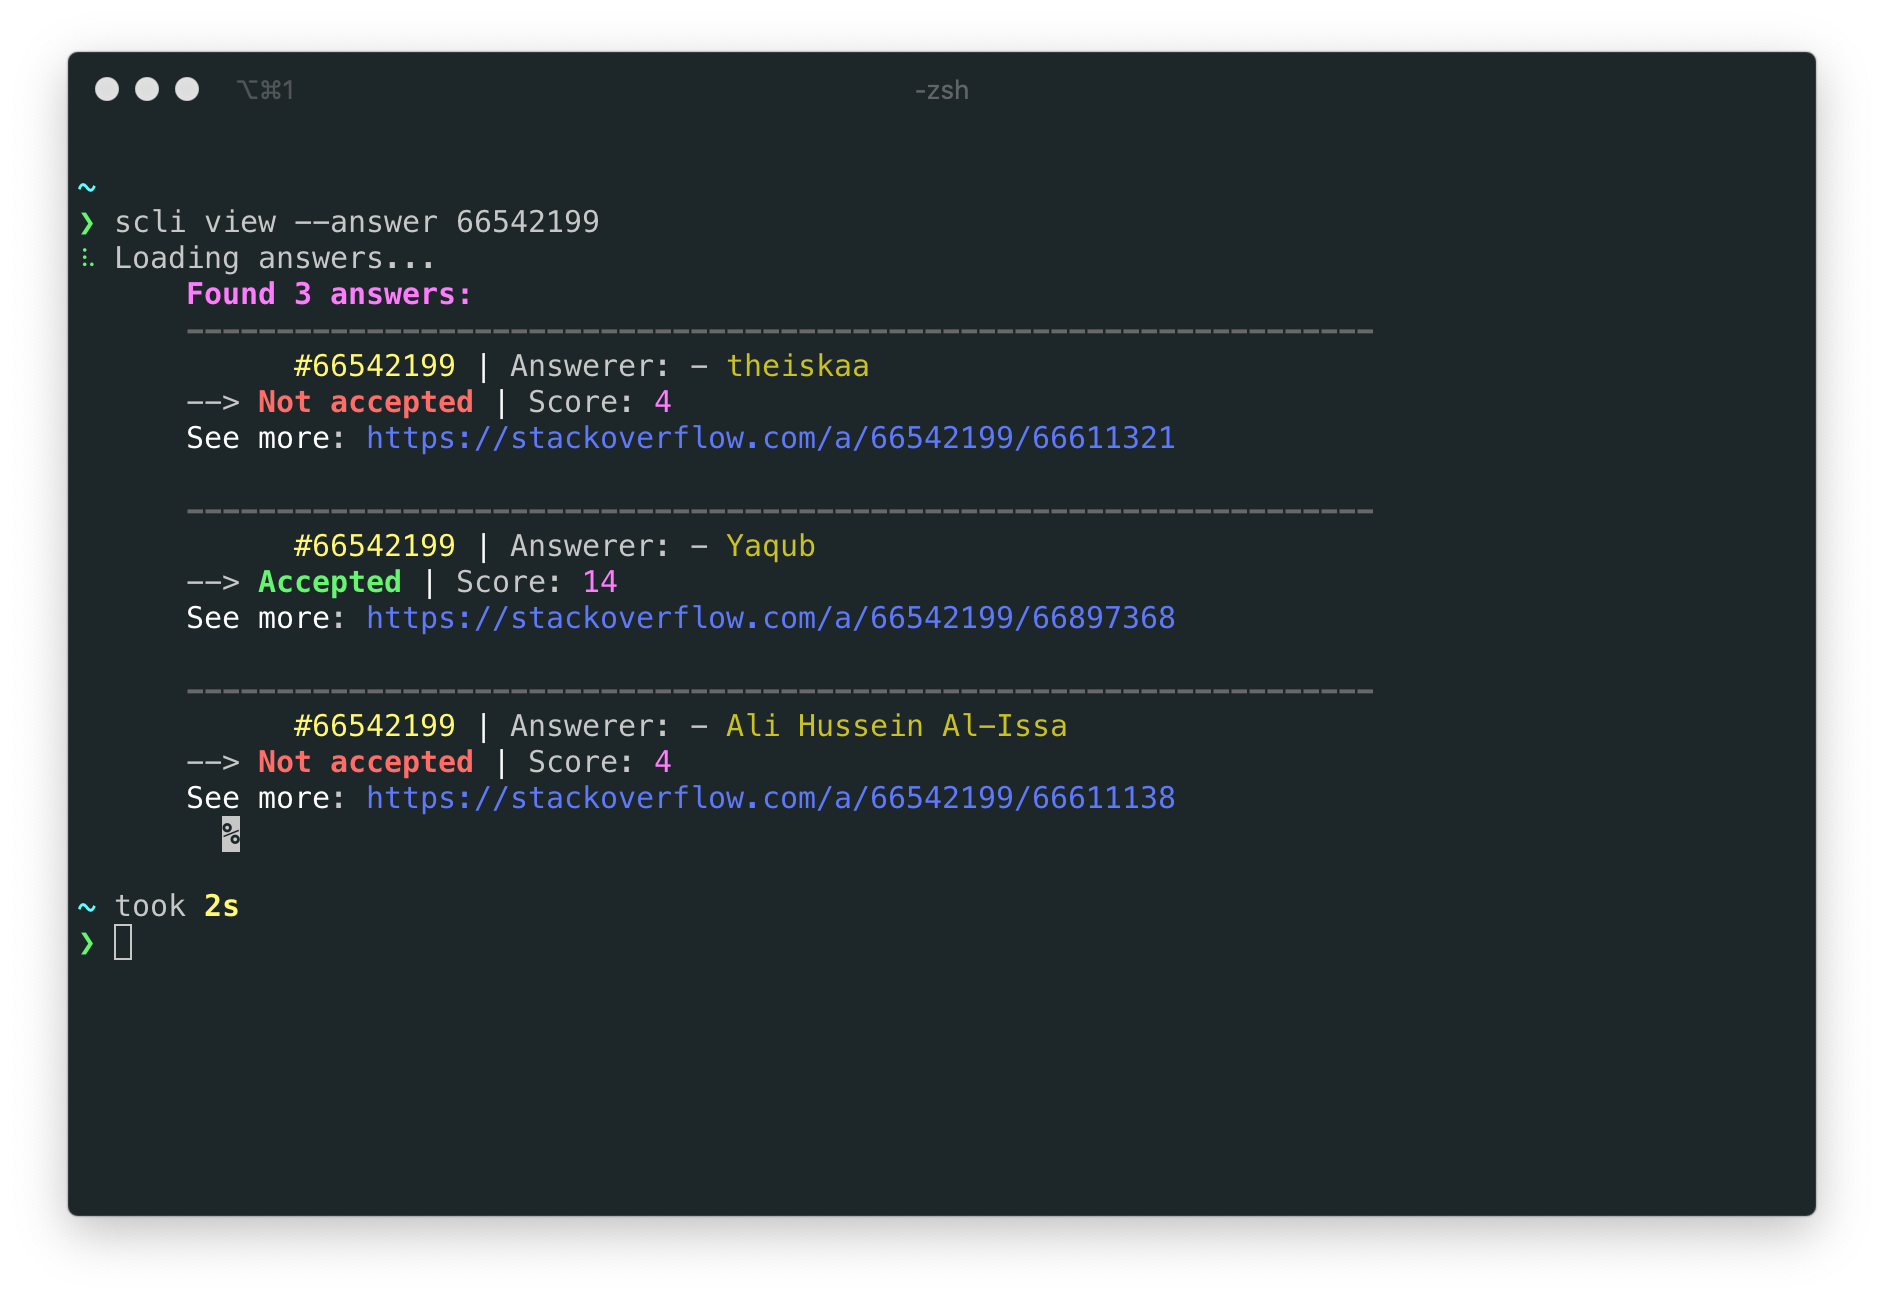
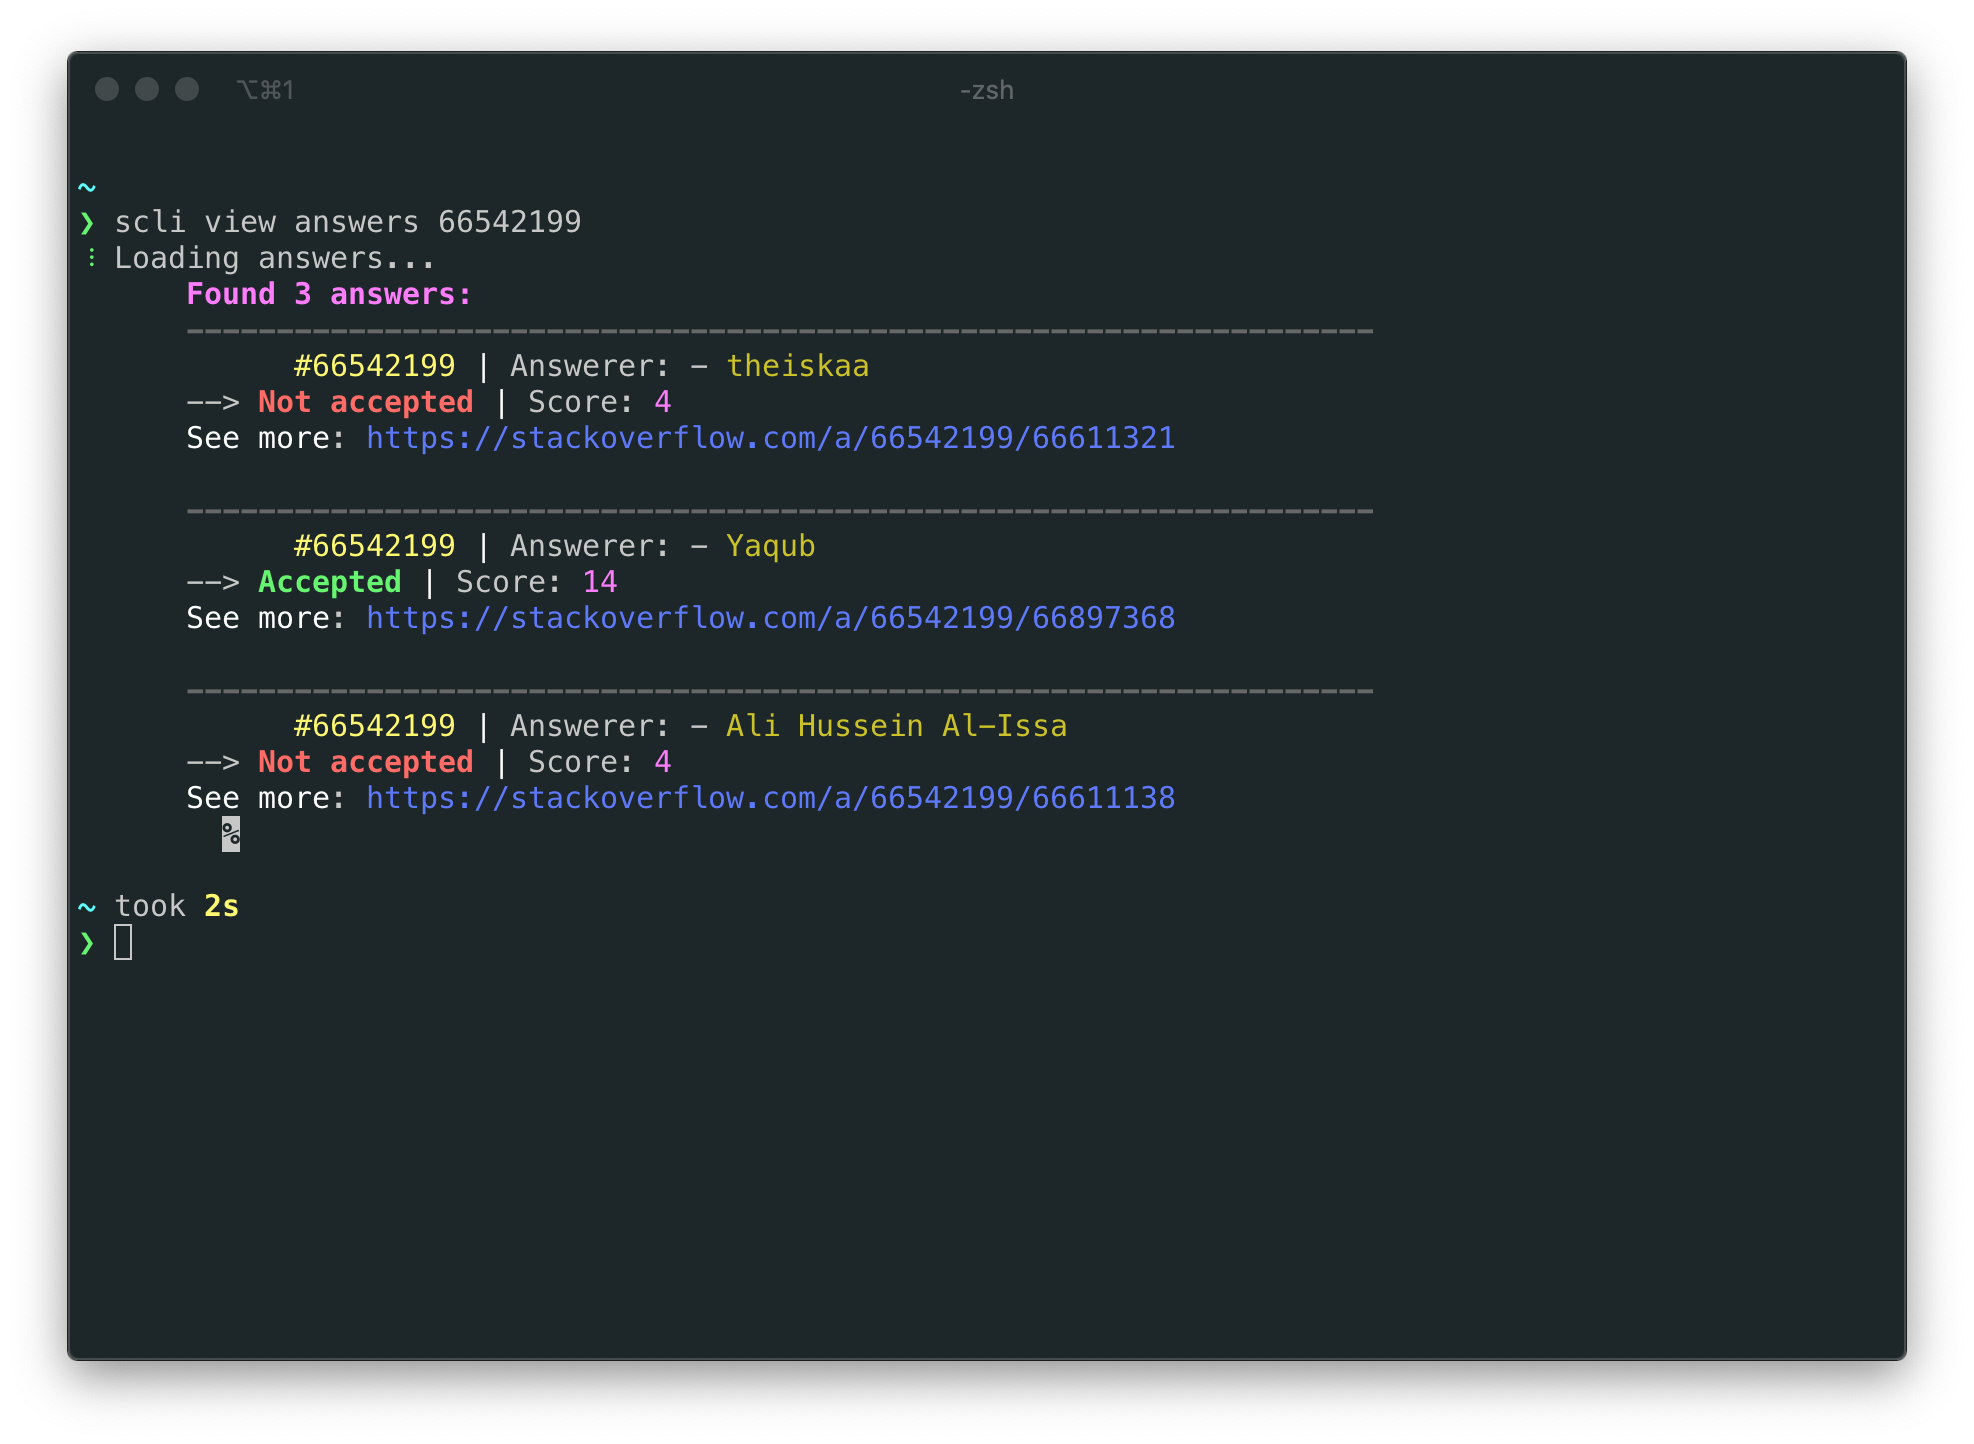
Feature/view comments (#7)
* Change option of answer to subcommand

* Add comments subcommand

* Add overview of view comment and update readme

Changed region(s): [[0.0308, 0.0308, 0.9851, 0.9846]]

diff --git a/lib/src/models/comment.dart b/lib/src/models/comment.dart
@@ -1,0 +1,118 @@
+class Comment {
+  List<Items>? items;
+  bool? hasMore;
+  int? quotaMax;
+  int? quotaRemaining;
+
+  Comment({
+    this.items,
+    this.hasMore,
+    this.quotaMax,
+    this.quotaRemaining,
+  });
+
+  Comment.fromJson(Map<String, dynamic> json) {
+    if (json['items'] != null) {
+      items = <Items>[];
+      json['items'].forEach((v) {
+        items!.add(Items.fromJson(v));
+      });
+    }
+    hasMore = json['has_more'];
+    quotaMax = json['quota_max'];
+    quotaRemaining = json['quota_remaining'];
+  }
+
+  Map<String, dynamic> toJson() {
+    final data = <String, dynamic>{};
+    if (items != null) {
+      data['items'] = items!.map((v) => v.toJson()).toList();
+    }
+    data['has_more'] = hasMore;
+    data['quota_max'] = quotaMax;
+    data['quota_remaining'] = quotaRemaining;
+    return data;
+  }
+}
+
+class Items {
+  Owner? owner;
+  bool? edited;
+  int? score;
+  int? creationDate;
+  int? postId;
+  int? commentId;
+  String? contentLicense;
+
+  Items({
+    this.owner,
+    this.edited,
+    this.score,
+    this.creationDate,
+    this.postId,
+    this.commentId,
+    this.contentLicense,
+  });
+
+  Items.fromJson(Map<String, dynamic> json) {
+    owner = json['owner'] != null ? Owner.fromJson(json['owner']) : null;
+    edited = json['edited'];
+    score = json['score'];
+    creationDate = json['creation_date'];
+    postId = json['post_id'];
+    commentId = json['comment_id'];
+    contentLicense = json['content_license'];
+  }
+
+  Map<String, dynamic> toJson() {
+    final data = <String, dynamic>{};
+    if (owner != null) {
+      data['owner'] = owner!.toJson();
+    }
+    data['edited'] = edited;
+    data['score'] = score;
+    data['creation_date'] = creationDate;
+    data['post_id'] = postId;
+    data['comment_id'] = commentId;
+    data['content_license'] = contentLicense;
+    return data;
+  }
+}
+
+class Owner {
+  int? reputation;
+  int? userId;
+  String? userType;
+  String? profileImage;
+  String? displayName;
+  String? link;
+
+  Owner({
+    this.reputation,
+    this.userId,
+    this.userType,
+    this.profileImage,
+    this.displayName,
+    this.link,
+  });
+
+  Owner.fromJson(Map<String, dynamic> json) {
+    reputation = json['reputation'];
+    userId = json['user_id'];
+    userType = json['user_type'];
+    profileImage = json['profile_image'];
+    displayName = json['display_name'];
+    link = json['link'];
+  }
+
+  Map<String, dynamic> toJson() {
+    final data = <String, dynamic>{};
+    data['reputation'] = reputation;
+    data['user_id'] = userId;
+    data['user_type'] = userType;
+    data['profile_image'] = profileImage;
+    data['display_name'] = displayName;
+    data['link'] = link;
+    return data;
+  }
+}

diff --git a/lib/src/logger.dart b/lib/src/logger.dart
@@ -3,6 +3,7 @@ import 'dart:async';
 import 'dart:io';
 
 import 'package:io/ansi.dart';
+import 'package:scli/src/models/comment.dart';
 import 'package:scli/src/models/question.dart';
 
 import 'models/answer.dart';
@@ -89,7 +90,7 @@ class Logger {
   /// Writes success message to stdout.
   void success(String? message) => stdout.writeln(lightGreen.wrap(message));
 
-  void question(Question question, [var questionLength = 5]) {
+  void questions(Question question, [var questionLength = 5]) {
     var rightTermine = questionLength > 1 ? 'questions' : 'question';
     var vl = '${white.wrap('|')}';
     empty();
@@ -119,7 +120,7 @@ class Logger {
     }
   }
 
-  void answer(Answer answer, [int? answersLength = 1]) {
+  void answers(Answer answer, [int? answersLength = 1]) {
     var rightTermine = answersLength! > 1 ? 'answers' : 'answer';
     var vl = styleBlink.wrap('${white.wrap('|')}');
 
@@ -142,6 +143,31 @@ class Logger {
         '''
       $id $vl Answerer: - $owner
       --> $isAccepted $vl Score: $score
+      ${white.wrap('See more')}: $link
+        ''',
+      );
+    }
+  }
+
+  void comments(Comment comment, [int? commentsLength = 1]) {
+    var rightTermine = commentsLength! > 1 ? 'comments' : 'comment';
+    var vl = styleBlink.wrap('${white.wrap('|')}');
+
+    empty();
+    stdout.write(styleBold.wrap(
+      '${lightMagenta.wrap('Found $commentsLength $rightTermine:')}',
+    ));
+    for (var i = 0; i < commentsLength; i++) {
+      var id = '${lightYellow.wrap('#${comment.items?[i].commentId}')}';
+      var owner = '${yellow.wrap('"${comment.items?[i].owner?.displayName}"')}'
+          .replaceAll('"', '');
+      var score = '${lightMagenta.wrap('${comment.items?[i].score}')}';
+      var link =
+          '${lightBlue.wrap('https://stackoverflow.com/questions/${comment.items?[i].postId}')}';
+      line();
+      stdout.write(
+        '''
+      $id $vl Score: $score $vl Commenter: - $owner
       ${white.wrap('See more')}: $link
         ''',
       );

diff --git a/lib/src/api_generator.dart b/lib/src/api_generator.dart
@@ -1,9 +1,9 @@
-/// API class which provides customizable api urls.
+/// Class which provides customizable API urls.
 class ApiGen {
   static const questions = 'https://api.stackexchange.com/2.2/questions?';
   static const searchUrl = 'https://api.stackexchange.com/2.2/search?';
 
-  /// Get right quesiton's api url.
+  /// Get right quesiton's API url.
   String get({
     String? order = 'desc',
     String? sort = 'activity',
@@ -40,13 +40,23 @@ class ApiGen {
     return '${searchUrl}order=$order&sort=$sort&intitle=$inTitle&site=stackoverflow';
   }
 
-  // Ger right answer{id} api url.
-  String answers({
+  // Get question's answer API url.
+  String getAnswers({
     required String qID,
     String? order = 'desc',
     String? sort = 'activity',
     int? limit = 0,
   }) {
     return '${questions.replaceAll('?', '/')}$qID/answers?order=$order&sort=$sort&site=stackoverflow';
+  }
+
+  // Ger right answer{id} api url.
+  String getComments({
+    required String qID,
+    String? order = 'desc',
+    String? sort = 'creation',
+    int? limit = 0,
+  }) {
+    return '${questions.replaceAll('?', '/')}$qID/comments?order=$order&sort=$sort&site=stackoverflow';
   }
 }

diff --git a/lib/src/commands/view/view-comment.dart b/lib/src/commands/view/view-comment.dart
@@ -1,0 +1,43 @@
+import 'dart:async';
+import 'dart:io';
+
+import 'package:args/command_runner.dart';
+import 'package:dio/dio.dart';
+import 'package:io/io.dart';
+import 'package:scli/src/models/comment.dart';
+import 'package:scli/src/sc_command_helper.dart';
+
+class ViewComments extends Command<int?> with SCLIcommandHelper {
+  @override
+  Dio dio;
+
+  ViewComments(this.dio);
+
+  @override
+  String get description => 'View comments of concrete question.';
+
+  @override
+  String get name => 'comments';
+
+  @override
+  FutureOr<int?> run() async {
+    if (argResults!.arguments.isEmpty) {
+      log.error(''''
+      Error: Please provide a question id to get right comments.
+      ''');
+      exit(ExitCode.noInput.code);
+    }
+
+    log.progress('Loading comments');
+    var questionID = argResults!.arguments[0];
+
+    await viewComments(questionID);
+    exit(ExitCode.success.code);
+  }
+
+  Future<void> viewComments(String qID, [int limit = 0]) async {
+    final res = await dio.get(apiGen.getComments(qID: qID));
+    var comment = Comment.fromJson(res.data);
+    log.comments(comment, comment.items?.length);
+  }
+}

diff --git a/lib/src/commands/view/view-answer.dart b/lib/src/commands/view/view-answer.dart
@@ -1,0 +1,43 @@
+import 'dart:async';
+import 'dart:io';
+
+import 'package:args/command_runner.dart';
+import 'package:dio/dio.dart';
+import 'package:io/io.dart';
+import 'package:scli/src/models/answer.dart';
+import 'package:scli/src/sc_command_helper.dart';
+
+class ViewAnswers extends Command<int?> with SCLIcommandHelper {
+  @override
+  Dio dio;
+
+  ViewAnswers(this.dio);
+
+  @override
+  String get description => 'View answers of concrete question.';
+
+  @override
+  String get name => 'answers';
+
+  @override
+  FutureOr<int?> run() async {
+    if (argResults!.arguments.isEmpty) {
+      log.error(''''
+      Error: Please provide a question id to get right answers.
+      ''');
+      exit(ExitCode.noInput.code);
+    }
+
+    log.progress('Loading answers');
+    var questionID = argResults!.arguments[0];
+
+    await viewAnswers(questionID);
+    exit(ExitCode.success.code);
+  }
+
+  Future<void> viewAnswers(String qID, [int limit = 0]) async {
+    final res = await dio.get(apiGen.getAnswers(qID: qID));
+    var answer = Answer.fromJson(res.data);
+    log.answers(answer, answer.items?.length);
+  }
+}

diff --git a/test/commands/view_test.dart b/test/commands/view_test.dart
@@ -80,14 +80,24 @@ void main() {
     commandRunner.dio.httpClientAdapter = dioAdapter;
   });
 
-  group('[Search]', () {
-    test('test as default', () async {
+  group('[View]', () {
+    test('test answers view ', () async {
       dioAdapter.onGet(
-        api.answers(qID: '66542197'),
+        api.getAnswers(qID: '66542197'),
         (request) => request.reply(200, jsonAnswersList),
       );
 
-      var result = await commandRunner.run(['view', '--answer', '66542197']);
+      var result = await commandRunner.run(['view', 'answers', '66542197']);
+      expect(result, equals(ExitCode.success.code));
+    });
+
+    test('test comments view ', () async {
+      dioAdapter.onGet(
+        api.getComments(qID: '66542197'),
+        (request) => request.reply(200, jsonAnswersList),
+      );
+
+      var result = await commandRunner.run(['view', 'comments', '66542197']);
       expect(result, equals(ExitCode.success.code));
     });
   });

diff --git a/lib/src/commands/view/view.dart b/lib/src/commands/view/view.dart
@@ -1,0 +1,22 @@
+import 'package:dio/dio.dart';
+import 'package:args/command_runner.dart';
+
+import 'package:scli/src/commands/view/view-answer.dart';
+import 'package:scli/src/commands/view/view-comment.dart';
+import 'package:scli/src/sc_command_helper.dart';
+
+class View extends Command<int?> with SCLIcommandHelper {
+  @override
+  Dio dio;
+
+  View(this.dio) {
+    addSubcommand(ViewAnswers(dio));
+    addSubcommand(ViewComments(dio));
+  }
+
+  @override
+  String get description => 'View answers/comments of concrete question';
+
+  @override
+  String get name => 'view';
+}

diff --git a/test/logger_test.dart b/test/logger_test.dart
@@ -80,8 +80,8 @@ void main() {
     test('alert', () => logger.alert('alert'));
     test('warn', () => logger.warn('warn'));
     test('success', () => logger.success('success'));
-    test('question', () => logger.question(question, 1));
-    test('question', () => logger.answer(answer, 1));
+    test('question', () => logger.questions(question, 1));
+    test('question', () => logger.answers(answer, 1));
     test('line', () => logger.line());
     test('empty', () => logger.empty());
   });

diff --git a/test/command_runner_test.dart b/test/command_runner_test.dart
@@ -18,6 +18,7 @@ const expectedPrintLogs = [
       'Available commands:\n'
       '  get        Get newest questions. As default would get exectly 5 question from general questions timeline.\n'
       '  search     Search question. Require to provide a search text.\n'
+      '  view     View answers/comments of concrete question\n'
       '\n'
       'Run "scli help <command>" for more information about a command.'
 ];

diff --git a/lib/src/command_runner.dart b/lib/src/command_runner.dart
@@ -2,7 +2,7 @@ import 'package:args/args.dart';
 import 'package:args/command_runner.dart';
 import 'package:dio/dio.dart';
 import 'package:io/io.dart';
-import 'package:scli/src/commands/view.dart';
+import 'package:scli/src/commands/view/view.dart';
 
 import 'commands/get.dart';
 import 'sc_command_helper.dart';

diff --git a/lib/src/commands/get.dart b/lib/src/commands/get.dart
@@ -82,6 +82,6 @@ class Get extends Command<int?> with SCLIcommandHelper {
   ]) async {
     final res = await dio.get(apiGen.get(limit: limit, id: id, tags: tags));
     var question = Question.fromJson(res.data);
-    log.question(question, limit);
+    log.questions(question, limit);
   }
 }

diff --git a/lib/src/commands/search.dart b/lib/src/commands/search.dart
@@ -65,6 +65,6 @@ class Search extends Command<int?> with SCLIcommandHelper {
       tags: tags,
     ));
     var question = Question.fromJson(res.data);
-    log.question(question, question.items?.length);
+    log.questions(question, question.items?.length);
   }
 }
